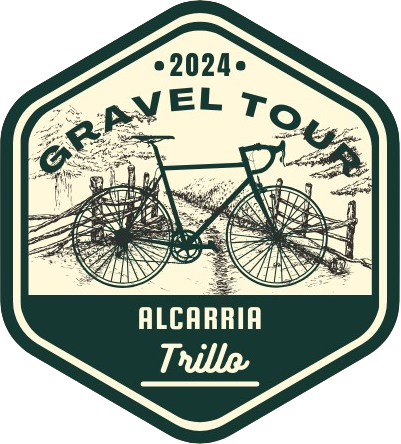
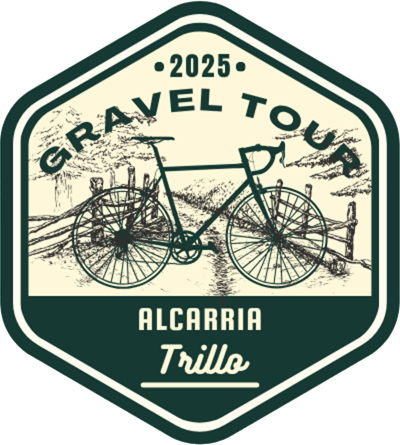
changes 2025

diff --git a/index.html b/index.html
@@ -30,7 +30,7 @@
     <meta property="og:type" content="website">
     <meta property="og:title" content="Gravel Tour Alcarria">
     <meta property="og:description" content="Gravel Tour Alcarria es un recorrido circular que atraviesa pueblos de la comarca con mucha relevancia cómo son Trillo, Cifuentes, Brihuega, Sacedón , Pareja entre otros , y dónde Camilo José Cela se inspiró para escribir su gran novela reconocida a nivel mundial como es “VIAJE A LA ALCARRIA”">
-    <meta property="og:image" content="https://graveltouralcarria.com/og_gravel-tour-alcarria.png">
+    <meta property="og:image" content="https://graveltouralcarria.com/og_gravel-tour-alcarria_25.png">
 
     <!-- Twitter Meta Tags -->
     <meta name="twitter:card" content="summary_large_image">
@@ -38,7 +38,7 @@
     <meta property="twitter:url" content="https://graveltouralcarria.com">
     <meta name="twitter:title" content="Gravel Tour Alcarria">
     <meta name="twitter:description" content="Gravel Tour Alcarria es un recorrido circular que atraviesa pueblos de la comarca con mucha relevancia cómo son Trillo, Cifuentes, Brihuega, Sacedón , Pareja entre otros , y dónde Camilo José Cela se inspiró para escribir su gran novela reconocida a nivel mundial como es “VIAJE A LA ALCARRIA”">
-    <meta name="twitter:image" content="https://graveltouralcarria.com/og_gravel-tour-alcarria.png">
+    <meta name="twitter:image" content="https://graveltouralcarria.com/og_gravel-tour-alcarria_25.png">
 </head>
 
 <body>
@@ -99,12 +99,12 @@
                         <h1 class="font-1 fw-bold fs-large accent-color-2">
                             GRAVEL TOUR ALCARRIA
                         </h1>
-                        <h2 class="font-1 accent-color">26 de Octubre 2024</h2>
+                        <h2 class="font-1 accent-color">25 de Octubre 2025</h2>
                         <p><i class="font-2 fs-4">Gravel Tour Alcarria no es solo una ruta ciclista, sino una experiencia única que une deporte, literatura y cultura.</i></p>
                         
                         <a class="btn btn-danger" target="_blank" href="https://multiaventurabuendia.es/actividades/detalle/gravel-tour-alcarria">Inscríbete ahora</a>
-                        <p class="caption-text font-2">Límite de inscripciones 80 participantes</p>
-                        <p class="caption-text font-2">Fecha límite de inscripción 24.10.2024</p>
+                        <p class="caption-text font-2">Límite de inscripciones 150 participantes</p>
+                        <p class="caption-text font-2">Fecha límite de inscripción 23 de Octubre 2025</p>
                     </div>
                 </div>
             </div>
@@ -209,11 +209,11 @@
                     <div class="divider accent-color">
                         <i class="fa-solid fa-circle-chevron-down"></i>
                     </div>
-                    <p class="fw-normal font-2">El 26 de Octubre de 2024 estrenaremos este nuevo recorrido, un recorrido circular que empieza y acaba en Trillo.
+                    <p class="fw-normal font-2">El 25 de Octubre de 2025 tenemos la segunda edición de <strong>Gravel Tour Alcarria</strong> con alguna novedad.
                     </p>
                         <div class="row row-cols-1 row-cols-lg-2">
                         <div class="col col-lg-4">
-                            <strong class="font-1 fs-4 accent-color">Viernes 25 de Octubre 2024</strong>
+                            <strong class="font-1 fs-4 accent-color">Viernes 24 de Octubre 2025</strong>
                             <ul class="path">
                                 <li><i class="fa-solid fa-location-dot"></i> <strong>17:00 a 20:00</strong> <br>Recogida de material y acreditaciones en el Complejo Rural El Colvillo.</li>
                                 <li><i class="fa-solid fa-location-dot"></i> <strong>19:00 a 20:00</strong> <br>Briefing tanto presencial como online para los que no puedan asistir.</li>
@@ -221,7 +221,7 @@
                             </ul>
                         </div>
                         <div class="col col-lg-4">
-                            <strong class="font-1 fs-4 accent-color">Sábado 26 de Octubre 2024</strong>
+                            <strong class="font-1 fs-4 accent-color">Sábado 25 de Octubre 2025</strong>
 
                             <ul class="path">
                                 <li><i class="fa-solid fa-location-dot"></i> <strong>6:00 a 8:00</strong> <br>Salida desde Trillo y recogida de material y acreditaciones.</li>
@@ -257,7 +257,7 @@
                         <div class="divider accent-color">
                             <i class="fa-solid fa-circle-chevron-down"></i>
                         </div>
-                        
+                        <p class="font-1 fs-4 accent-color">Para esta segunda edición el recorrido tendrá algún cambio para mejorar la experiencia. Dos días antes enviaremos el track a los participantes.</p>
                         <ul class="path">
                             <li><i class="fa-solid fa-location-dot accent-color-2"></i> <strong class="accent-color-2">1. Salida en Trillo: El inicio del Viaje
                             </strong> <br>El recorrido comienza en Trillo, un pequeño y pintoresco pueblo bañado por las aguas del río Tajo. Aquí, Cela pasó una de sus primeras noches en su viaje, maravillado por el sonido del agua y la tranquilidad del lugar. Desde Trillo, los ciclistas emprenderán su propio "viaje", dejando atrás el murmullo del río y adentrándose en los caminos de grava que conectan las tierras alcarreñas.
@@ -310,7 +310,7 @@
                             </div>
                             <p>
                                 Al igual que Camilo José Cela describía su viaje como un descubrimiento, el <strong>Gravel Tour Alcarria</strong> invita a los ciclistas a vivir la comarca desde una perspectiva íntima. La credencial de sellado en cada pueblo no es solo un sistema de control, sino una forma de incentivar el espíritu de exploración y la conexión con los lugares que marcaron la obra de Cela. Cada punto de control es una oportunidad para detenerse, observar y sentir el encanto de los pueblos alcarreños, tal como el escritor lo hizo en su tiempo.
-    </p>
+                            </p>
                         </div>
                     </div>
                     <div class="col col-lg-5">
@@ -354,7 +354,7 @@
                             <div class="d-flex flex-column gap-3">
                                 <h5 class="accent-color fw-normal font-2 fs-4"><i>¿Qué incluye?</i></h5>
                                 <h2 class="font-1 fw-bold">Inscripciones</h2>
-                                <p class="accent-color">Límite de inscripciones <strong>80 participantes</strong><br>Inscripciones a partir del <b>Miércoles 02 de Octubre</b></p>
+                                <p class="accent-color">Límite de inscripciones <strong>150 participantes</strong><br>Inscripciones a partir del <b>01 de Septiembre de 2025</b></p>
                                 <div class="divider accent-color">
                                     <i class="fa-solid fa-circle-chevron-down"></i>
                                 </div>
@@ -384,7 +384,6 @@
                 </div>
                     <div class="row row-cols-1 row-cols-lg-2">
                     <div class="col col-lg-12">
-                       
                        <ol>
                         <li><b>Compromiso con el entorno</b> <br>Es fundamental respetar el medio ambiente y mantener en buenas condiciones tanto el camino como los paisajes que recorres.
                         </li>
